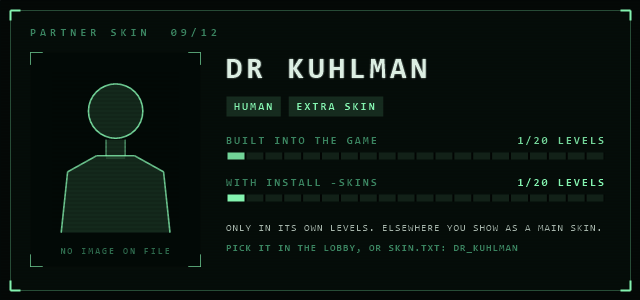
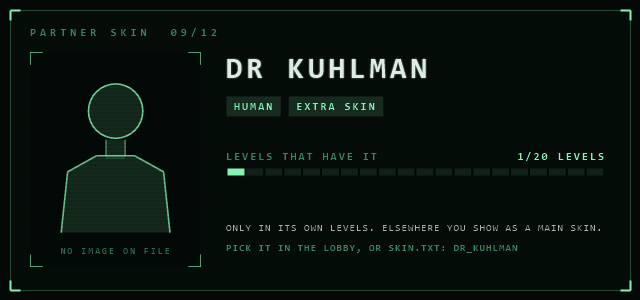
v0.3.1: fixes from in-game testing; -Skins off (its levels didn't load), installer restores them

diff --git a/coopnet/worldsync.c b/coopnet/worldsync.c
@@ -172,6 +172,10 @@ static int generic_owner_ok(uint32_t owner, uint32_t eid) { return syncmap_kind(
 
 static volatile LONG g_paused;
 void ws_pause(int paused) { InterlockedExchange(&g_paused, paused != 0); }
+static volatile LONG g_settle_until;
+static volatile LONG g_sent_clear;   /* a new level session: forget which one-time steps went out */
+void ws_settle(uint32_t ms) { InterlockedExchange(&g_settle_until, (LONG)((GetTickCount() + ms) | 1)); InterlockedExchange(&g_sent_clear, 1); }
+static int settling(void) { LONG u = g_settle_until; return u && (int32_t)((DWORD)u - GetTickCount()) > 0; }
 
 static void (*g_cut_cb)(void);
 static DWORD g_cut_t;
@@ -180,9 +184,10 @@ void ws_set_cutscene_cb(void (*cb)(void)) { g_cut_cb = cb; }
 /* ONCE events already sent recently (a LogicOnce keeps receiving trigger after it has fired). */
 typedef struct { uint32_t k; DWORD t; } Sent;
 static Sent g_sent[256]; static int g_sent_i;
-static int sent_recently(uint32_t k) {
+static int sent_recently(uint32_t k) {   /* once per level session (a fired LogicOnce can keep being triggered) */
     DWORD now = GetTickCount();
-    for (int i = 0; i < 256; i++) if (g_sent[i].k == k && now - g_sent[i].t < 30000) return 1;
+    if (InterlockedExchange(&g_sent_clear, 0)) memset(g_sent, 0, sizeof g_sent);
+    for (int i = 0; i < 256; i++) if (g_sent[i].k == k && g_sent[i].t) return 1;
     g_sent[g_sent_i].k = k; g_sent[g_sent_i].t = now; g_sent_i = (g_sent_i + 1) & 255;
     return 0;
 }
@@ -239,7 +244,7 @@ static int read_path(uint32_t ent, uint32_t *path, uint32_t *owner_type);
 static void cut_check(uint32_t m, uint32_t eid, uint32_t type, const uint32_t *target) {
     int cand = (type == T_CAGEANIM && (m == SG_START || m == SG_START_CUT)) || (type == T_PLAYANIM && m == SG_APPLY_START) ||
                (type == T_CAMRESOURCE && m == SG_ACTIVATE_CAM) || (type == T_MOVIE && m == SG_TRIGGER) || (type == T_STEALCAM && m == SG_START);
-    if (!cand || !g_cut_cb || replay_active()) return;
+    if (!cand || !g_cut_cb || replay_active() || settling()) return;
     DWORD now = GetTickCount();
     if (g_cut_t && now - g_cut_t < CUT_GAP_MS) return;   /* one per scene */
     uint32_t path[6], owner = 0;
@@ -256,7 +261,7 @@ void ws_on_call(const uint32_t *msg, const uint32_t *target) {
     if (!msg || !target) return;
     uint32_t m = msg[0], eid = target[3], type = target[4];
     cut_check(m, eid, type, target);
-    if (!g_on || g_paused) return;
+    if (!g_on || g_paused || settling()) return;
     for (int r = 0; r < NRULES; r++) {
         const Rule *R = &RULES[r];
         if (m != R->when.method || (R->when.eid && eid != R->when.eid) || type != R->when.type) continue;

diff --git a/coopnet/replay.c b/coopnet/replay.c
@@ -29,6 +29,30 @@ static volatile LONG g_in_replay;
 static cm_fn g_hook;
 void replay_set_hook(cm_fn hook) { g_hook = hook; }
 
+/* Keys that just failed to resolve (the entity isn't loaded in this game, e.g. a part of the level that's streamed
+   out): not looked up again for FAIL_MS, as each lookup scans memory. */
+#define FAIL_MS 20000
+static struct { uint32_t h; DWORD t; } g_fail[64]; static int g_fail_i;
+static CRITICAL_SECTION g_fail_cs;
+static uint32_t key_hash(const ReplayKey *k) {
+    uint32_t h = 2166136261u, v[3] = {k->method, k->eid, k->type};
+    for (int i = 0; i < 3; i++) { h ^= v[i]; h *= 16777619u; }
+    for (int i = 0; i < k->npath; i++) { h ^= k->path[i]; h *= 16777619u; }
+    return h ? h : 1;
+}
+static int failed_recently(uint32_t h) {
+    int hit = 0; DWORD now = GetTickCount();
+    EnterCriticalSection(&g_fail_cs);
+    for (int i = 0; i < 64; i++) if (g_fail[i].h == h && now - g_fail[i].t < FAIL_MS) { hit = 1; break; }
+    LeaveCriticalSection(&g_fail_cs);
+    return hit;
+}
+static void note_failed(uint32_t h) {
+    EnterCriticalSection(&g_fail_cs);
+    g_fail[g_fail_i].h = h; g_fail[g_fail_i].t = GetTickCount(); g_fail_i = (g_fail_i + 1) & 63;
+    LeaveCriticalSection(&g_fail_cs);
+}
+
 static int rd(uintptr_t a, void *o, size_t n) {
     SIZE_T got = 0;
     return a > 0x10000 && a < 0x7FFF0000 && ReadProcessMemory(GetCurrentProcess(), (LPCVOID)a, o, n, &got) && got == n;
@@ -101,7 +125,7 @@ static DWORD WINAPI worker(LPVOID p) {
             uint32_t hb = replay_resolve(&g_req[i].k);
             if (g_logf) g_logf("replay: resolve %08x/%08x (%d up) -> hb %08x in %lu ms", g_req[i].k.eid, g_req[i].k.method,
                                g_req[i].k.npath, hb, GetTickCount() - t);
-            if (!hb) { g_req[i].state = 0; continue; }
+            if (!hb) { note_failed(key_hash(&g_req[i].k)); g_req[i].state = 0; continue; }
             g_req[i].hb = hb; InterlockedExchange(&g_req[i].state, 2);
         }
     }
@@ -110,11 +134,13 @@ static DWORD WINAPI worker(LPVOID p) {
 
 void replay_init(void (*logf)(const char *, ...)) {
     g_logf = logf;
+    InitializeCriticalSection(&g_fail_cs);
     g_wake = CreateEventA(NULL, FALSE, FALSE, NULL);
     CloseHandle(CreateThread(NULL, 0, worker, NULL, 0, NULL));
 }
 
 int replay_request(const ReplayKey *k) {
+    if (g_fail_cs.DebugInfo && failed_recently(key_hash(k))) return 0;
     for (int i = 0; i < NREQ; i++)
         if (InterlockedCompareExchange(&g_req[i].state, -1, 0) == 0) {
             g_req[i].k = *k; InterlockedExchange(&g_req[i].state, 1); SetEvent(g_wake); return 1;

diff --git a/coopnet/test/sync_test.c b/coopnet/test/sync_test.c
@@ -70,13 +70,16 @@ int main(void) {
     CHECK(!cut_safe_spot(&tr, 0, s3), "no trail, no spot");
     for (int i = 0; i <= 30; i++) { float q[3] = {i * 0.1f, 2.f, 0.f}; cut_trail_push(&tr, 1000u + (uint32_t)i * 33u, q); }
     uint32_t tnow = 1000u + 30u * 33u;
-    CHECK(cut_safe_spot(&tr, tnow, s3) && fabsf(s3[0] - 2.0f) < 0.051f && s3[1] == 2.f, "spot 1 m behind on the path");
+    CHECK(cut_safe_spot(&tr, tnow, s3) && s3[0] <= 2.0f && s3[0] >= 1.5f && s3[1] == 2.f, "spot 1 m behind on the path");
+    CHECK(tr.n < 31, "points only every 0.3 m");
+    for (int i = 0; i < 100; i++) { float q[3] = {3.0f, 2.f, 0.f}; cut_trail_push(&tr, tnow + 33u * (uint32_t)i, q); }
+    CHECK(cut_safe_spot(&tr, tnow + 3300u, s3) && s3[0] <= 2.0f && s3[0] >= 1.5f, "standing still for 3 s keeps the spot behind (no landing inside them)");
     CutTrail st; memset(&st, 0, sizeof st);
     for (int i = 0; i < 10; i++) { float q[3] = {5.f, 0.f, 5.f}; cut_trail_push(&st, 100u + (uint32_t)i * 33u, q); }
     CHECK(cut_safe_spot(&st, 500, s3) && near3(s3, 5, 0, 5), "standing still: their own spot");
     CutTrail old; memset(&old, 0, sizeof old);
-    { float q0[3] = {0, 0, 0}, q1[3] = {3, 0, 0}; cut_trail_push(&old, 100, q0); cut_trail_push(&old, 9000, q1); }
-    CHECK(cut_safe_spot(&old, 9000, s3) && near3(s3, 3, 0, 0), "too old a point isn't used");
+    { float q0[3] = {0, 0, 0}, q1[3] = {3, 0, 0}; cut_trail_push(&old, 100, q0); cut_trail_push(&old, 90000, q1); }
+    CHECK(cut_safe_spot(&old, 90000, s3) && near3(s3, 3, 0, 0), "too old a point isn't used");
     for (int i = 0; i < 200; i++) { float q[3] = {(float)i, 0, 0}; cut_trail_push(&tr, 5000u + (uint32_t)i * 33u, q); }
     CHECK(tr.n == CUT_TRAIL && cut_safe_spot(&tr, 5000u + 199u * 33u, s3) && near3(s3, 198, 0, 0), "trail wraps");
 

diff --git a/coopnet/coopnet.c b/coopnet/coopnet.c
@@ -673,7 +673,8 @@ static void net_recv(void) {
         }
         PresencePkt k = u.p;
         EnterCriticalSection(&g_cs);
-        if (!g_peer.valid || (int32_t)(k.seq - g_peer.seq) > 0) {
+        /* newer than the last, or the partner went quiet (a restarted game counts from 0 again: found in game) */
+        if (!g_peer.valid || (int32_t)(k.seq - g_peer.seq) > 0 || GetTickCount() - g_peer.t_ms > 2000) {
             memcpy(g_peer.p, k.pos, 12); memcpy(g_peer.q, k.quat, 16);
             memcpy(g_peer.name, k.name, 16); g_peer.name[15] = 0;
             g_peer.seq = k.seq; g_peer.t_ms = GetTickCount(); g_peer.valid = (k.flags & 1) ? 2 : 1;
@@ -952,6 +953,12 @@ static DWORD WINAPI net_thread(LPVOID p) {
             static DWORD last_chars;
             int in_lvl = c.ok && (c.p[0] != 0.f || c.p[1] != 0.f || c.p[2] != 0.f);
             if (in_lvl && now - last_chars >= 33) { read_chars(); last_chars = now; }   /* 30 Hz: the alien position drives the joiner's alien */
+            {   /* a level (or a checkpoint) just started: its start-up scripts run in both games, don't send them */
+                static int was_in;
+                if (!in_lvl) ws_settle(15000);   /* menus and loading: the level's start-up scripts run before the camera exists */
+                else if (!was_in) logf_("worldsync: level started, not sending for 15 s");
+                was_in = in_lvl;
+            }
             {   /* builds, every 3 s */
                 static DWORD last_build;
                 if (now - last_build >= 3000) { BuildPkt k; proto_fill_build(&k, g_mod_hash, g_game_build); net_raw(&k, sizeof k); last_build = now; }

diff --git a/tools/skinprep/Program.cs b/tools/skinprep/Program.cs
@@ -30,7 +30,7 @@ static class P
         string? Opt(string k) { var i = Array.IndexOf(a, k); return i >= 0 && i + 1 < a.Length ? a[i + 1] : null; }
         var skins = (Opt("--skins")?.Split(',') ?? DefaultSkins).Select(s => s.Trim().ToUpperInvariant()).ToArray();
         var only = Opt("--levels")?.Split(',').Select(s => s.Trim().ToUpperInvariant()).ToHashSet();
-        bool dry = a.Contains("--dry"), restore = a.Contains("--restore");
+        bool dry = a.Contains("--dry"), restore = a.Contains("--restore"), roundtrip = a.Contains("--roundtrip");   // roundtrip: load and save, add nothing (diagnosis)
         if (System.Diagnostics.Process.GetProcessesByName("AI").Length > 0) { Console.WriteLine("Close the game first."); return 2; }
 
         var env = Path.Combine(game, "DATA", "ENV");
@@ -64,7 +64,8 @@ static class P
                     .GroupBy(t => t.k).ToDictionary(g => g.Key, g => g.First().v);
                 var missing = skins.Where(s => sourceOf.ContainsKey(s) && !Has(dest.Commands, "DisplayModel:" + s)).ToList();
                 var present = skins.Where(x => Has(dest.Commands, "DisplayModel:" + x)).ToList();
-                if (missing.Count == 0) { Console.WriteLine($"{name}: has every skin"); have[name] = present; continue; }
+                if (missing.Count == 0 && !roundtrip) { Console.WriteLine($"{name}: has every skin"); have[name] = present; continue; }
+                if (roundtrip) missing.Clear();
                 if (dry) { Console.WriteLine($"{name}: would add {string.Join(", ", missing)}"); continue; }
                 foreach (var s in missing)
                 {

diff --git a/coopnet/cutscene.h b/coopnet/cutscene.h
@@ -10,15 +10,21 @@
 #include <string.h>
 #include <math.h>
 
-#define CUT_TRAIL       64        /* ~2 s at 30 Hz */
+#define CUT_TRAIL       64        /* points at least CUT_STEP_M apart: the last ~20+ m walked */
 #define CUT_BACK_M      1.0f      /* land this far behind the partner */
-#define CUT_TRAIL_MS    3000
+#define CUT_TRAIL_MS    60000     /* older points aren't used */
+#define CUT_STEP_M      0.3f      /* a new point only after moving this far (standing still keeps the old ones) */
 #define CUT_NEAR_M      3.0f      /* already this close: don't move */
 #define CUT_BOTH_MS     2000      /* both started one within this: the joiner goes to the host */
 
 typedef struct { uint32_t t[CUT_TRAIL]; float p[CUT_TRAIL][3]; int n, head; } CutTrail;
 
 static inline void cut_trail_push(CutTrail *tr, uint32_t t, const float p[3]) {
+    if (tr->n) {   /* standing still: keep the points behind us (in game a still partner made us land inside them) */
+        const float *last = tr->p[(tr->head + CUT_TRAIL - 1) % CUT_TRAIL];
+        float dx = p[0] - last[0], dy = p[1] - last[1], dz = p[2] - last[2];
+        if (dx * dx + dy * dy + dz * dz < CUT_STEP_M * CUT_STEP_M) { tr->t[(tr->head + CUT_TRAIL - 1) % CUT_TRAIL] = t; return; }
+    }
     tr->t[tr->head] = t; memcpy(tr->p[tr->head], p, 12);
     tr->head = (tr->head + 1) % CUT_TRAIL;
     if (tr->n < CUT_TRAIL) tr->n++;

diff --git a/tools/skincards/skincards.c b/tools/skincards/skincards.c
@@ -92,12 +92,12 @@ static int card(const Skin *s, int idx, int total, const char *dir) {
     { float w2 = text_w(&c, what, 11, 1, 2) + 16; fill(&c, with_a(GREEN, 34), tx, 96, w2, 20); text(&c, what, tx + 8, 100, 11, GREEN, 1, 2, LEFT, 0); tx += w2 + 8; }
     { float w2 = text_w(&c, tier, 11, 1, 2) + 16; fill(&c, with_a(acc, 34), tx, 96, w2, 20); text(&c, tier, tx + 8, 100, 11, acc, 1, 2, LEFT, 0); }
 
-    bar(&c, x, 134, CW - 30 - x - 6, "BUILT INTO THE GAME", nb, with_a(acc, 220));
-    bar(&c, x, 176, CW - 30 - x - 6, "WITH INSTALL -SKINS", nw, acc);
+    bar(&c, x, 150, CW - 30 - x - 6, "LEVELS THAT HAVE IT", nb, acc);
+    (void)nw;
 
     /* note */
     const char *note = s->experimental ? "ONLY WHEN PICKED. ITS ANIMATIONS MAY NOT FIT A PLAYER." :
-                       is_main(s->name) ? "COPIED INTO EVERY LEVEL BY THE INSTALLER (NOT TECH_COMMS)." :
+                       is_main(s->name) ? "ELSEWHERE YOU SHOW AS ANOTHER SKIN THE LEVEL HAS." :
                        "ONLY IN ITS OWN LEVELS. ELSEWHERE YOU SHOW AS A MAIN SKIN.";
     text(&c, note, x, 222, 10, with_a(INK, 190), 0, 1, LEFT, 0);
     char pick[64]; snprintf(pick, sizeof pick, "PICK IT IN THE LOBBY, OR SKIN.TXT: %s", s->name);

diff --git a/coopnet/worldsync.h b/coopnet/worldsync.h
@@ -10,4 +10,5 @@ void ws_on_call(const uint32_t *msg, const uint32_t *target);   /* from the call
 int ws_pop(WorldEvt *ev);                                        /* next local change to send */
 void ws_apply(const WorldEvt *ev);                               /* a change from the partner */
 void ws_set_cutscene_cb(void (*cb)(void));
-void ws_pause(int paused);   /* builds differ: neither send nor accept world events */   /* called (game thread) when a cutscene starts in our game */
+void ws_pause(int paused);   /* builds differ: neither send nor accept world events */
+void ws_settle(uint32_t ms); /* a level just started: don't send for a while (its start-up scripts run on both sides) */   /* called (game thread) when a cutscene starts in our game */

diff --git a/lobby/test/lobby_preview.c b/lobby/test/lobby_preview.c
@@ -39,7 +39,7 @@ int main(int argc, char **argv) {
     buf = malloc((size_t)W * H * 4);
     LbPlayer me = player("Ripley", "TAYLOR", 0xAAAA, 0);
     LbView v; memset(&v, 0, sizeof v);
-    v.version = "V0.3.0  BUILD 1A2B3C4D"; v.me_main = &me;
+    v.version = "V0.3.1  BUILD 1A2B3C4D"; v.me_main = &me;
 
     /* main, nothing found yet, typing a name */
     v.now = 1200; v.screen = LS_MAIN; v.name = "Ripley"; v.ip_text = ""; v.focus = LH_NAME; v.skin = "TAYLOR";

diff --git a/coopnet/version.h b/coopnet/version.h
@@ -1,3 +1,3 @@
 /* Release version, shown in the lobby and the logs. */
 #pragma once
-#define AIC_RELEASE "0.3.0"
+#define AIC_RELEASE "0.3.1"

diff --git a/README.md b/README.md
@@ -28,9 +28,9 @@ PC. I haven't played it across two PCs yet. My full test notes are in [docs/test
 | Achievements and stats blocked while modded | works (offline test) |
 | Partner marker (name, distance, arrow when off-screen) | works |
 | Internet play from the lobby: Internet tab, your Steam ID with a copy button, host or join by your friend's Steam ID | written and tested offline (Steam ID handling); not run between two Steam accounts yet |
-| Regroup: hold F7 to teleport to your partner (with a fade) | written and tested offline, not tried in a level yet |
+| Regroup: hold F7 to teleport to your partner (with a fade) | works in game (airport, two copies on one PC): lands about a metre behind your partner |
 | Build check in game: different mod or game builds turn world sync off and the overlay says why | written and tested offline, not tried with two different builds yet |
-| LAN lobby (`lobby.exe`): find each other on the network, ready up, both games start connected | lobby tested offline (57 checks, real UDP and TCP on one PC); not yet run between two PCs or through to the game |
+| LAN lobby (`lobby.exe`): find each other on the network, ready up, both games start connected | works in game on one PC: host, join by address, save copy, ready, start; both games launched together and connected. Not run between two PCs yet |
 | Host/join over Steam by Steam ID (no port forwarding) | works with the real Steam client, one account. Two accounts not tried yet |
 | Host/join over UDP | works on one PC. Over the internet the host needs UDP 45500 open |
 | Doors your partner opens open for you too | works |
@@ -38,16 +38,17 @@ PC. I haven't played it across two PCs yet. My full test notes are in [docs/test
 | Story steps your partner reaches run in your game | works for one tested step (M04 crowbar), not a whole mission |
 | Dying: you watch through your partner's eyes until they die too, then both reload the checkpoint | works with real deaths in a level. Not yet tested with the alien doing the killing |
 | Partner body: an NPC that walks where your partner walks, so the alien can see them | airport level only so far |
-| Skins: your partner shows up as a story character you pick (Taylor, Samuels, Axel...) | written and tested offline, not tried in game yet; off unless `AIC_SKINS=1` |
+| Skins: your partner shows up as a story character you pick (Taylor, Samuels, Axel...) | works in game in levels that already have the character (airport: both games spawned the partner as Axel and kept them on the partner). Part of the lobby's experimental mode |
 | Keycards and tools shared | written, not tried in a level yet |
 | Locked doors: one of you unlocks it (hack, keycard, code, lever, button) or cuts it open, it's open for both | written, not tried in a level yet |
-| Cutscenes: when one starts in your game, your partner is moved to you right away, so you watch it together | written and tested offline, not tried in a level yet; on by default (`AIC_CUTSCENE_TP=0` turns it off) |
-| Automatic world sync: every saved world state and every one-time scripted step, in every level, with no per-object rules (1,394 objects found in the level files) | written and tested offline, not tried in a level yet |
+| Cutscenes: when one starts in your game, your partner is moved to you right away, so you watch it together | the move itself works in game (same as F7); a cutscene starting it not seen yet. On by default (`AIC_CUTSCENE_TP=0` turns it off) |
+| Automatic world sync: every saved world state and every one-time scripted step, in every level, with no per-object rules (1,394 objects found in the level files) | runs in game: events sent and replayed in the airport and in a new game's opening. A shared story step not watched happening on screen yet |
 | Level changes: when one of you takes a lift, tram or exit to another level, the other loads it too | written, not tried in a level yet |
 | Host's alien director drives the joiner's alien (vents, behaviour, stage) | written, not tried in a level yet |
 | One alien in the same place for both players: the joiner's alien follows the host's alien's exact path (30 updates a second, smoothed) | written and tested offline, not tried in a level yet; part of the lobby's experimental mode (`AIC_SHARED_ALIEN=1`) |
 | New overlay: motion tracker, partner marker, death screens | tracker and marker checked in a level (airport, two copies on one PC); death screens only checked in rendered previews so far |
 | Split screen on one PC through [Couchlink](https://github.com/cranebeaker/couchlink) | recipe written, seats tested by hand, not run inside Couchlink yet |
+| A new game from the start, in co-op | works on one PC: both games started a new game, played the opening and loaded into the Torrens together |
 | Lobbies and Steam invites | planned, see [docs/online.md](docs/online.md) |
 
 ## Installing
@@ -125,8 +126,7 @@ when using `play-coop.bat`), and turn on the lobby's experimental mode. Your fri
 character, using a model the level already has. If the level doesn't have your pick, you show up as another
 story character the level does have.
 
-Every skin, with how many of the 20 levels it can appear in out of the box and after `install.ps1 -Skins`
-(the cards are drawn by `tools/skincards`; in-game pictures come once skins have been run in the game):
+Every skin, with how many of the 20 levels have it (the cards are drawn by `tools/skincards`):
 
 | | |
 |---|---|
@@ -137,33 +137,25 @@ Every skin, with how many of the 20 levels it can appear in out of the box and a
 | ![DR_KUHLMAN](docs/img/skins/dr_kuhlman.png) | ![SPACESUIT_HEYST](docs/img/skins/spacesuit_heyst.png) |
 | ![SPACESUIT_MEEKS](docs/img/skins/spacesuit_meeks.png) | ![ANDROID](docs/img/skins/android.png) |
 
-The five main skins can be copied into every level; the others only appear in the levels the story uses them
-in, and elsewhere you show up as a main skin instead. Exact level lists are in `coopnet/skins.h`.
+In a level that doesn't have your pick, you show up as another skin that level has. Exact level lists are in
+`coopnet/skins.h`.
 
-To get the five main characters (Taylor, Samuels, Axel, Ricardo, Marlow) into every level, install with
-`-Skins`. It needs the [.NET 8 runtime](https://dotnet.microsoft.com/download/dotnet/8.0) and takes about two
-minutes, with the game closed:
-
-```
-powershell -ExecutionPolicy Bypass -File install.ps1 -Skins
-```
-
-That runs `skinprep` (in the zip, source in `tools/skinprep`). It copies each character model with everything
-it renders with into the levels that lack it, re-loads each written level to check it, and backs up the
-originals to `coop_backup\levels\` first. It writes `coop_skins.txt` so the mod knows which levels now have which
-characters. Uninstalling puts the original level files back, and so does Steam's "Verify integrity of game files"
-(run the installer with `-Skins` again afterwards if you still want them).
-
-Tested on my test copy: install changed 19 levels with none failed, uninstall restored all 304 changed files
-byte for byte, and a second install worked the same. TECH_COMMS is skipped because CathodeLib can't read all of
-one of its mission scripts (it keeps the characters it already has). Not checked in game yet: whether every
-changed level still loads.
+**`-Skins` is off.** It used to copy the five main characters into every level with `tools/skinprep`, but in
+game testing the levels it wrote crashed the game while loading. The cause is the library it uses: loading a
+level with CathodeLib and saving it back unchanged already breaks it, because the level's model files
+(`LEVEL_MODELS.PAK`, `MODELS_LEVEL.BIN`) come out smaller and the game rejects them. That's the case in 0.12.2 and
+in the current staging build. If you installed v0.2.0 or v0.3.0 with `-Skins`, installing this version puts your
+original level files back for you (or use Steam's "Verify integrity of game files"). Until that's fixed,
+character bodies only appear in levels that already have the character, and elsewhere your partner is the
+overlay marker only.
 
 ## Known issues
 
 - The partner marker is an overlay, so you can see it through walls. The 3D body only exists in the airport
   level for now.
 - Each game still has its own alien. They follow the same director decisions but hunt on their own between them.
+- Your partner has a body only in levels that already contain the character models (see Skins); elsewhere
+  they're the marker and tracker blip, and the alien in your game can't see them.
 - Things that happen over and over (lift rides inside a level, a terminal you can use again, music and light
   zones) stay with the player who did them; only saved state and one-time steps are shared. Start from the same
   save.

diff --git a/docs/testing.md b/docs/testing.md
@@ -65,6 +65,39 @@ same IDs the mod uses, so the rule can fire there. 2026-11-06:
 The two LV426 levels have no `Door_Package` or `Door_Mechanism` doors (the derelict uses its own), so door and lock
 sync doesn't reach them. The Survivor map has no story mission composites, as expected.
 
+## In game, 2026-11-08 (v0.3.1)
+
+Two copies on one PC (Steam build 4940658), bot-driven, host p1 and joiner p2 over UDP on localhost.
+
+- **Level files from `-Skins` crash the game.** With skinprep's changed levels, Continue Game quit while loading
+  (also without coopnet.dll, so not the mod's code). Narrowed down on HAB_AIRPORT: a CathodeLib load-and-save
+  with nothing added already breaks it; with every round-tripped file except `LEVEL_MODELS.PAK` and
+  `MODELS_LEVEL.BIN` (which come back 87 KB and 178 KB smaller) it loads. Same with CathodeLib staging c3efa4ea.
+  `-Skins` is off; the installer restores levels changed by older versions. Checked: simulated a v0.3.0 `-Skins`
+  install on two levels, installed v0.3.1 over it, 32 files restored, the game loaded the airport.
+- **New player teleport (engine.c, the way OpenCAGE does it):** F7 regroup moved the joiner 9.3 m to the host,
+  then (after the trail fix) 4.4 m to a spot 1.4 m behind the host. The game kept running. Before the fix, a host
+  standing still made the joiner land inside them (the host got pushed 1.5 m).
+- **Skins in a level that has the character:** airport, both games spawned the partner as AXEL (the picked
+  SAMUELS / TAYLOR aren't in that level) and kept the body on the partner (checked on screen with the marker).
+- **Start-up noise:** both games sent ~40 world events while a level loaded (start-up scripts of doors and
+  terminals). Fixed: nothing is sent while not in a level and for 15 s after. A fired one-time step that keeps
+  being triggered was re-sent every 30 s; now once per level session. Lookups that fail (part of the level not
+  loaded) were retried at ~0.9 s of memory scanning each; now skipped for 20 s.
+- **Reconnect bug:** after the joiner restarted, the host never saw them again (a restarted game counts its
+  packets from 0). Fixed: a partner quiet for 2 s is taken fresh.
+- **Lobby, end to end:** host lobby and joiner lobby on one PC; join by address 127.0.0.1 (on one PC the host's
+  own listener takes the broadcast, as expected); "different saves" shown, Copy host's save copied and backed up
+  (`coop_saves\backup\p2-...`), then "same save"; Ready, Start; both AI.exe started within 45 ms; names and roles
+  from the lobby; connected.
+- **New game from the start:** both games started a new campaign (Medium), played the opening and loaded into the
+  Torrens side by side, connected; 8 world events each way during the opening. The bot can't play the mission
+  past that point.
+- **Survivor Mode (DLC_CHALLENGEMAP16):** both loaded and connected; no skin model in that level; the alien hadn't
+  come out after 2 minutes without playing the objectives, so the shared alien wasn't exercised.
+- Not exercised in game yet: a cutscene starting the partner move, level changes, the shared alien, the build
+  check with two builds, internet play over Steam with two accounts.
+
 ## In game
 
 Couch seats and death rules in game (2026-11-04, two copies on one PC at the main menu, started the way
